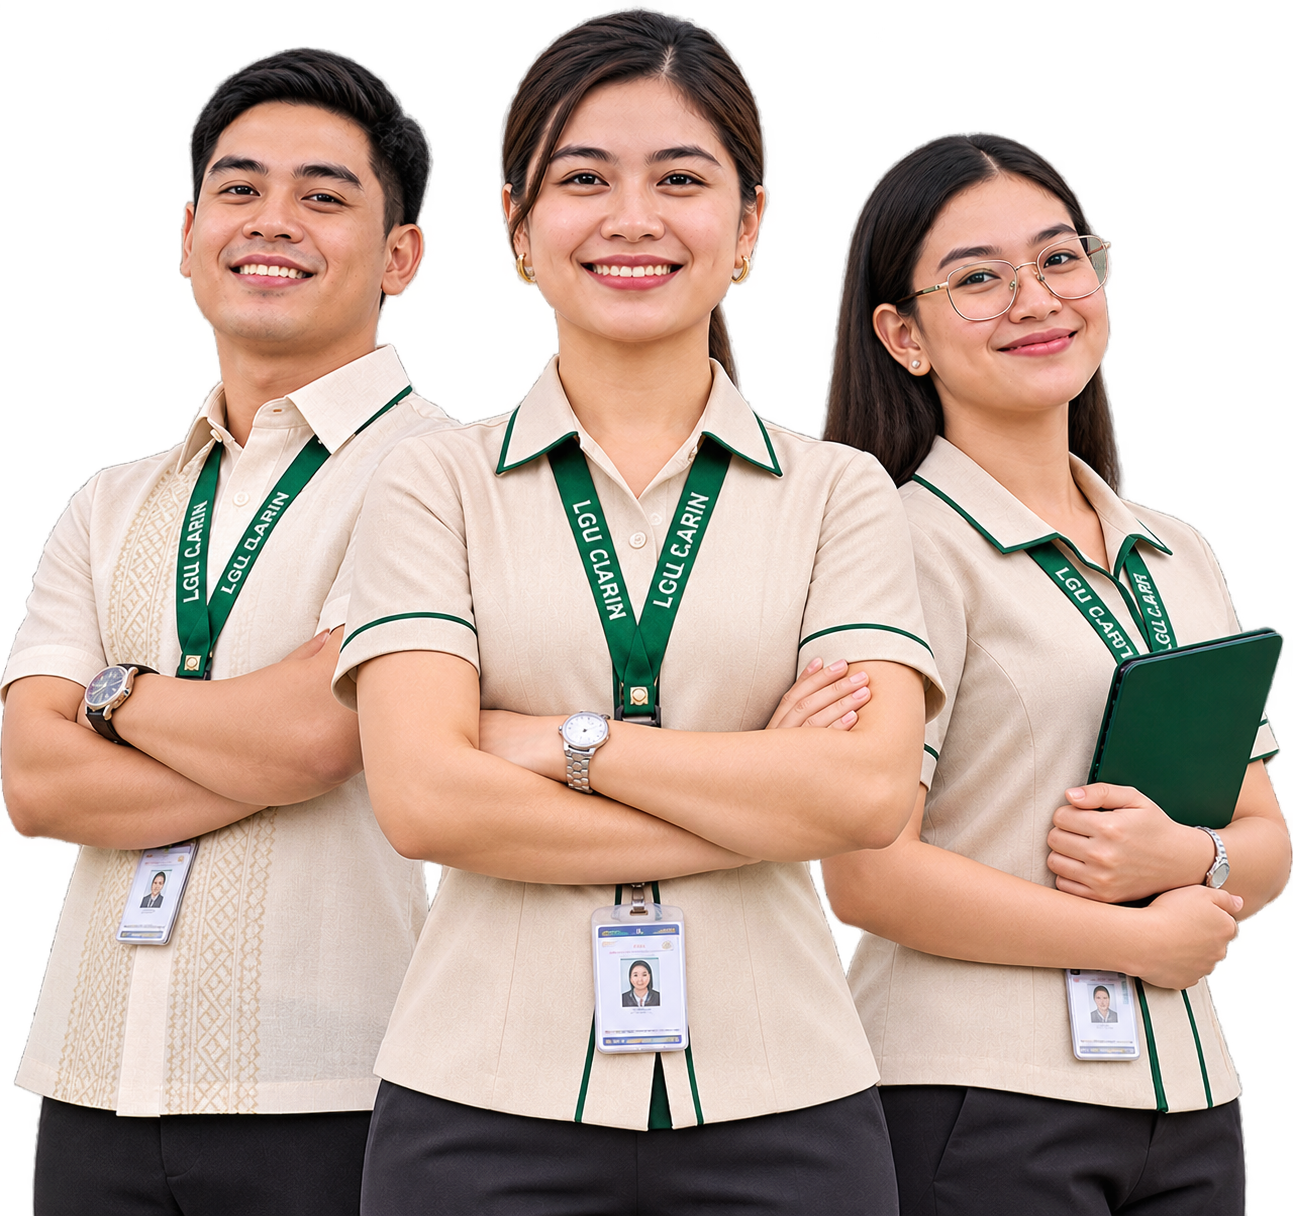
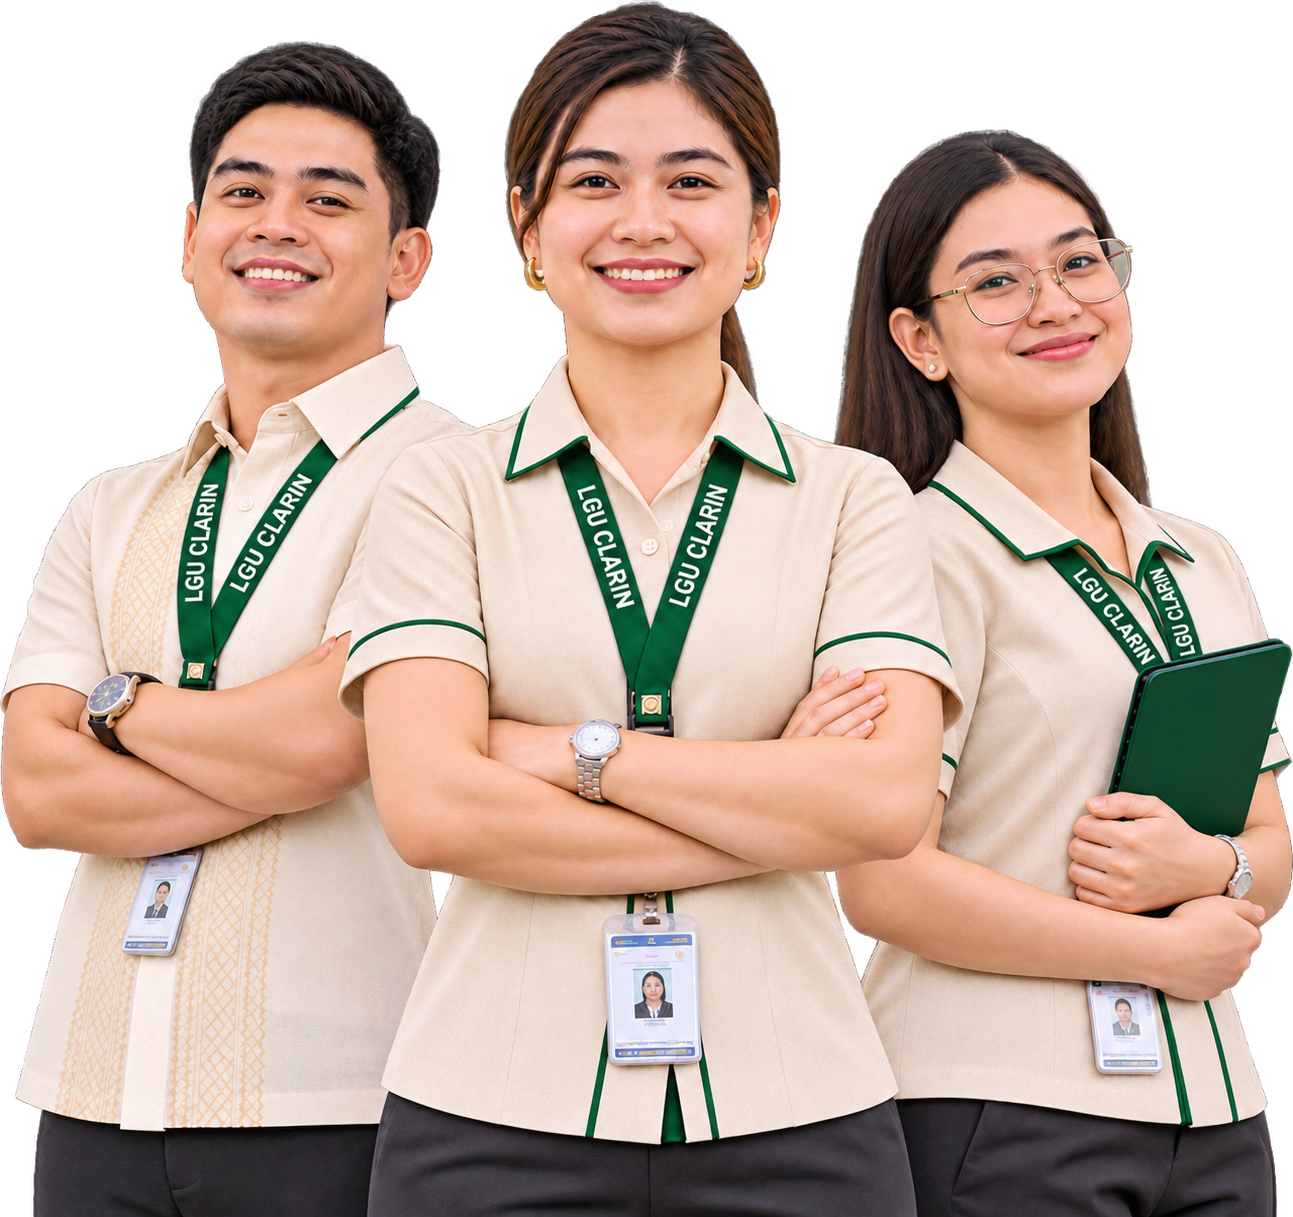
Update Clarin officials photo with corrected lanyard lettering

Changed region(s): [[0.0, 0.0, 1.0, 1.0], [0.0928, 0.9688, 0.1547, 1.0]]

diff --git a/resources/js/pages/welcome.tsx b/resources/js/pages/welcome.tsx
@@ -190,7 +190,7 @@ export default function Welcome() {
                                     src="/images/clarin-officials.png"
                                     alt="Three LGU Clarin officials in municipal uniforms"
                                     width={1293}
-                                    height={1216}
+                                    height={1217}
                                     className="max-h-[600px] w-auto max-w-full object-contain drop-shadow-2xl"
                                 />
                             </div>

diff --git a/resources/js/pages/dashboard.tsx b/resources/js/pages/dashboard.tsx
@@ -86,7 +86,7 @@ export default function Dashboard({ role, office, cards }: Props) {
                             src="/images/clarin-officials.png"
                             alt=""
                             width={1293}
-                            height={1216}
+                            height={1217}
                             className="absolute right-4 bottom-0 h-[94%] w-[90%] object-contain object-right-bottom lg:right-10"
                         />
                     </div>

diff --git a/resources/js/layouts/auth/auth-simple-layout.tsx b/resources/js/layouts/auth/auth-simple-layout.tsx
@@ -85,7 +85,7 @@ export default function AuthSimpleLayout({
                                 src="/images/clarin-officials.png"
                                 alt=""
                                 width={1293}
-                                height={1216}
+                                height={1217}
                                 decoding="async"
                                 className="h-full w-full object-contain object-bottom drop-shadow-xl"
                             />
